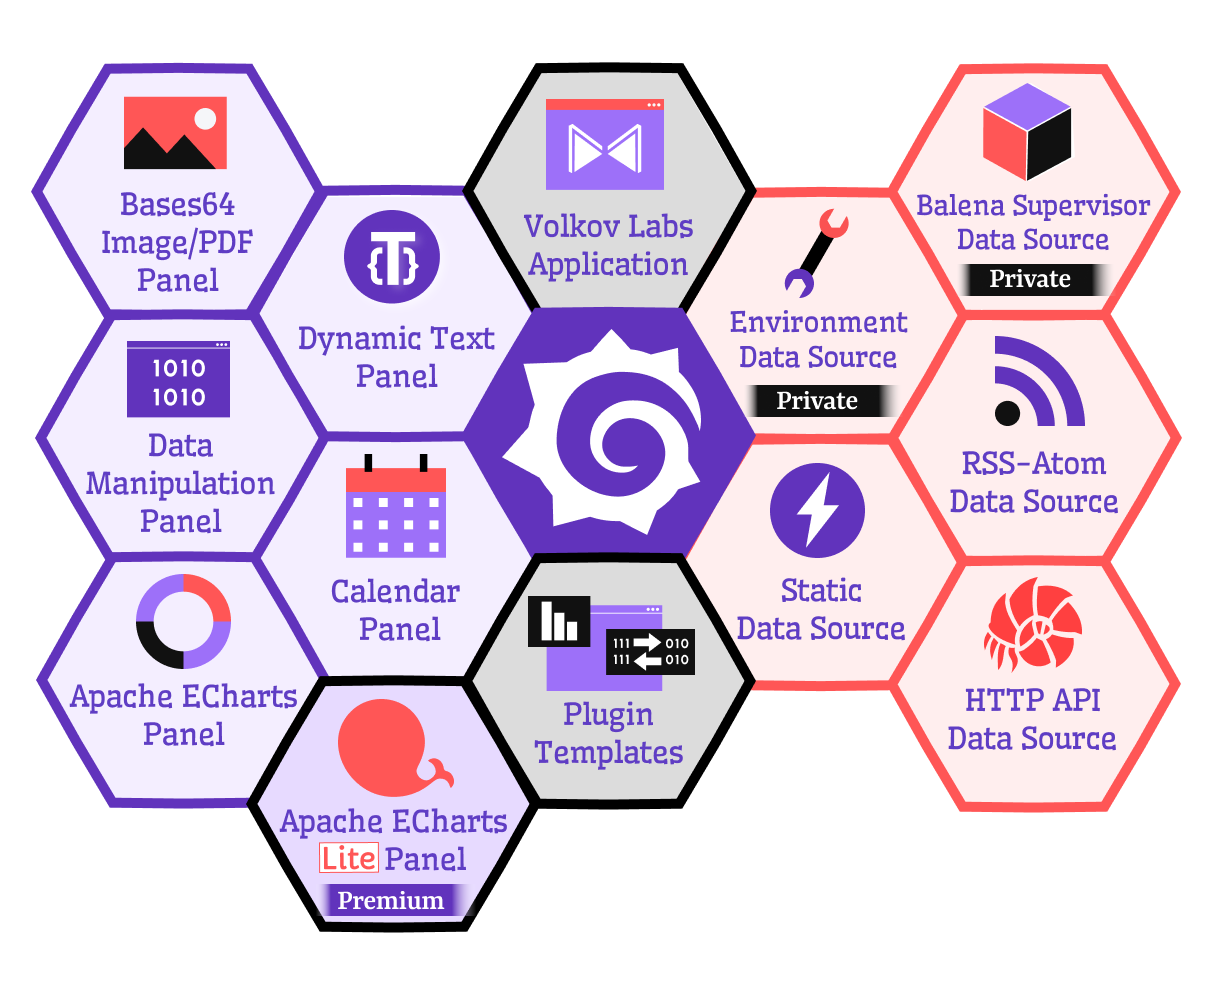
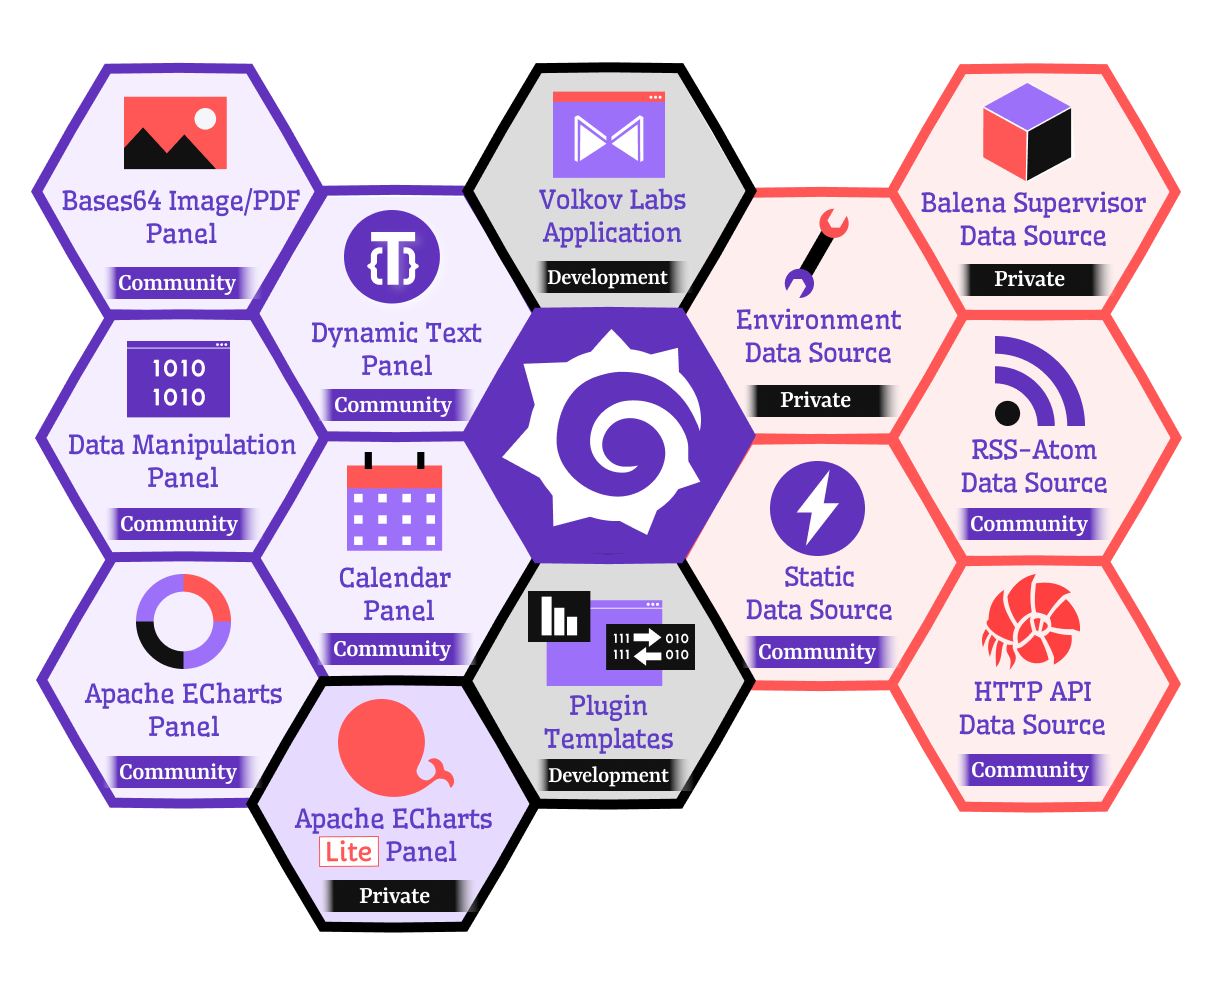
Update Grafana tutorials

diff --git a/src/pages/support.tsx b/src/pages/support.tsx
@@ -1,12 +1,12 @@
-import clsx from "clsx";
-import React from "react";
-import Head from "@docusaurus/Head";
-import useBaseUrl from "@docusaurus/useBaseUrl";
-import useDocusaurusContext from "@docusaurus/useDocusaurusContext";
-import Layout from "@theme/Layout";
-import ThemedImage from "@theme/ThemedImage";
-import styles from "../css/index.module.css";
-import Image from "../theme/Image";
+import clsx from 'clsx';
+import React from 'react';
+import Head from '@docusaurus/Head';
+import useBaseUrl from '@docusaurus/useBaseUrl';
+import useDocusaurusContext from '@docusaurus/useDocusaurusContext';
+import Layout from '@theme/Layout';
+import ThemedImage from '@theme/ThemedImage';
+import styles from '../css/index.module.css';
+import Image from '../theme/Image';
 
 /**
  * Header

diff --git a/src/constants/project.tsx b/src/constants/project.tsx
@@ -1,5 +1,5 @@
-import React from "react";
-import { PluginItem } from "../types";
+import React from 'react';
+import { PluginItem } from '../types';
 
 /**
  * Project List
@@ -10,7 +10,6 @@ export const ProjectList: PluginItem[] = [
     name: "volkovlabs-echarts-lite",
     description: <>Apache ECharts Core functionality, no extras.</>,
     href: "/plugins/volkovlabs-echarts-lite/",
-    badge: "https://img.shields.io/badge/Premium-9D70F9?style=for-the-badge",
   },
   {
     title: "Balena Application",

diff --git a/config/sidebar/grafana.js b/config/sidebar/grafana.js
@@ -8,15 +8,11 @@ const grafana = {
       items: [
         "grafana/annotations",
         "grafana/customize",
+        "grafana/datasources/json",
         "grafana/variables",
         "grafana/allow-unsigned",
       ],
-      label: "Features",
-      type: "category",
-    },
-    {
-      items: ["grafana/datasources/json"],
-      label: "Data Sources",
+      label: "Tutorials",
       type: "category",
     },
     {
